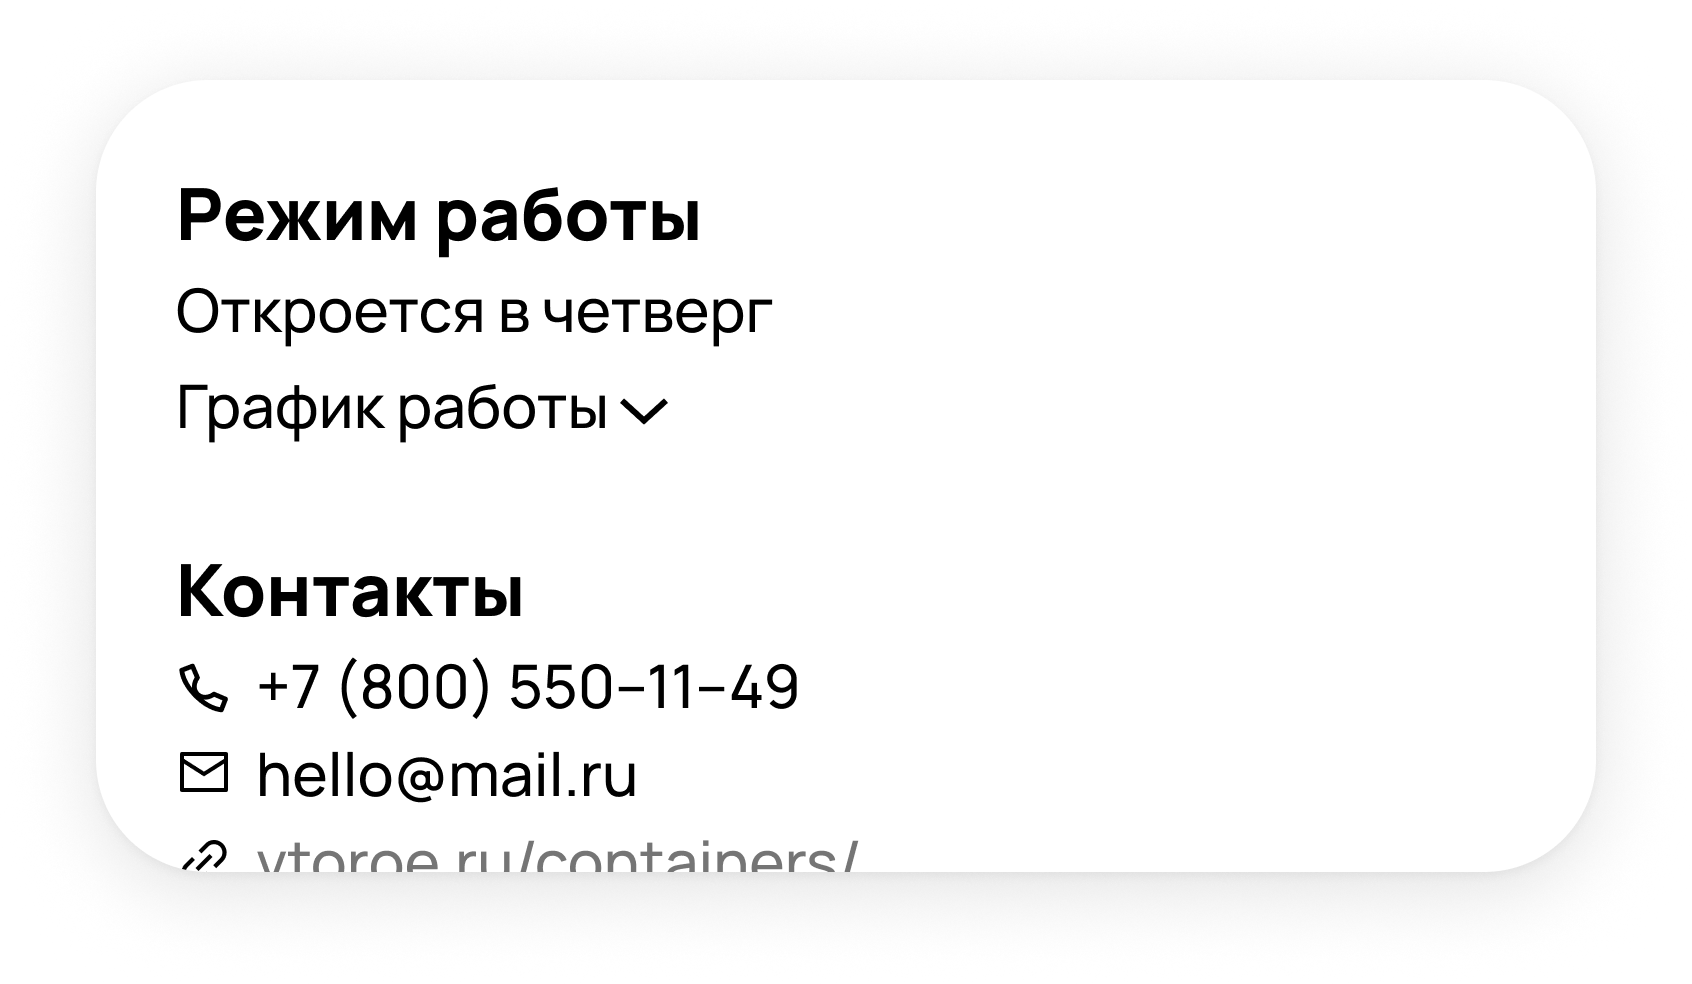
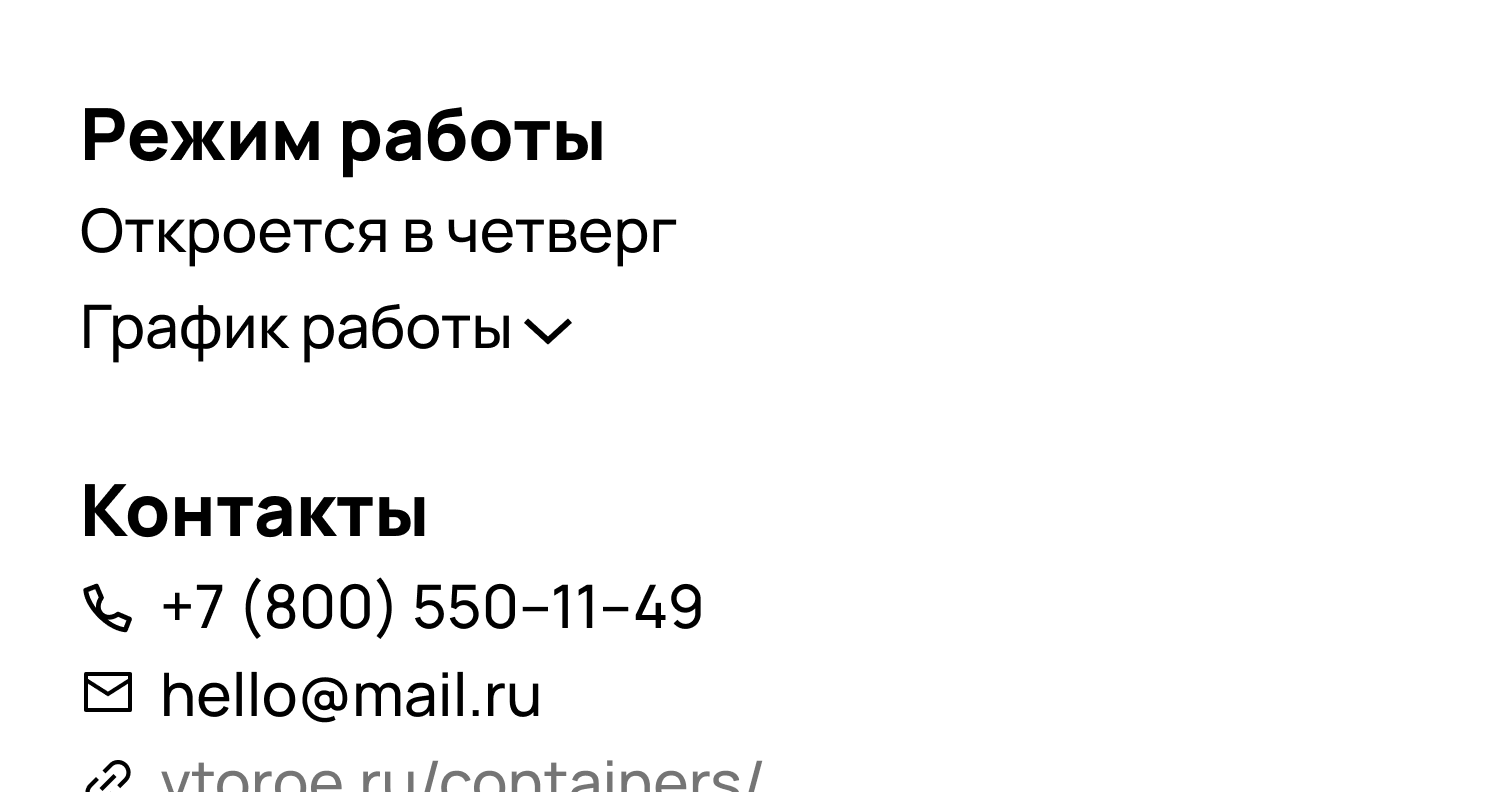
Replace opening hours screenshots with new WebP exports

diff --git a/projects/recycle-map/index.html b/projects/recycle-map/index.html
@@ -391,13 +391,13 @@ body {
         <p class="case-subtitle text-body-lg">Развернула режим работы в подробный график — из-за неточного времени чаще всего ездят зря.</p>
         <div class="case-schedule__grid case-cards-grid case-cards-grid--cols-3">
           <div class="case-cover__media case-cover__media--natural">
-            <img src="media/case%203/12.webp" alt="Подробный график работы пункта — пример 1" loading="lazy" />
+            <img src="media/case%203/12.webp?v=2" alt="Подробный график работы пункта — пример 1" loading="lazy" />
           </div>
           <div class="case-cover__media case-cover__media--natural">
-            <img src="media/case%203/13.webp" alt="Подробный график работы пункта — пример 2" loading="lazy" />
+            <img src="media/case%203/13.webp?v=2" alt="Подробный график работы пункта — пример 2" loading="lazy" />
           </div>
           <div class="case-cover__media case-cover__media--natural">
-            <img src="media/case%203/14.webp" alt="Подробный график работы пункта — пример 3" loading="lazy" />
+            <img src="media/case%203/14.webp?v=2" alt="Подробный график работы пункта — пример 3" loading="lazy" />
           </div>
         </div>
       </div>
